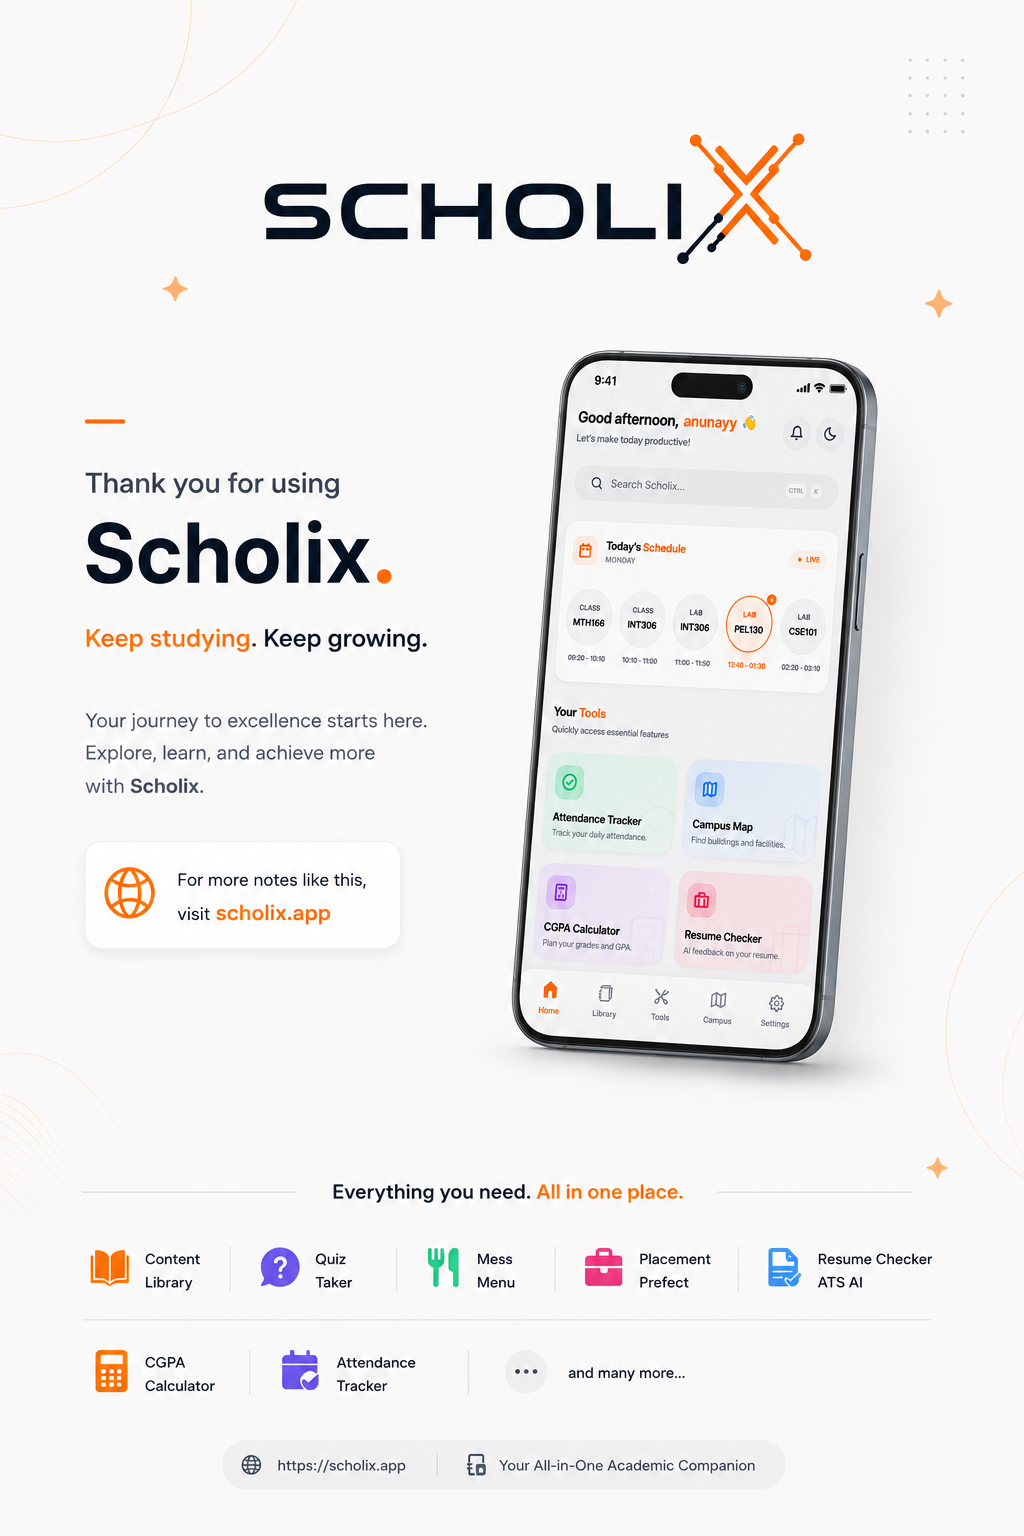
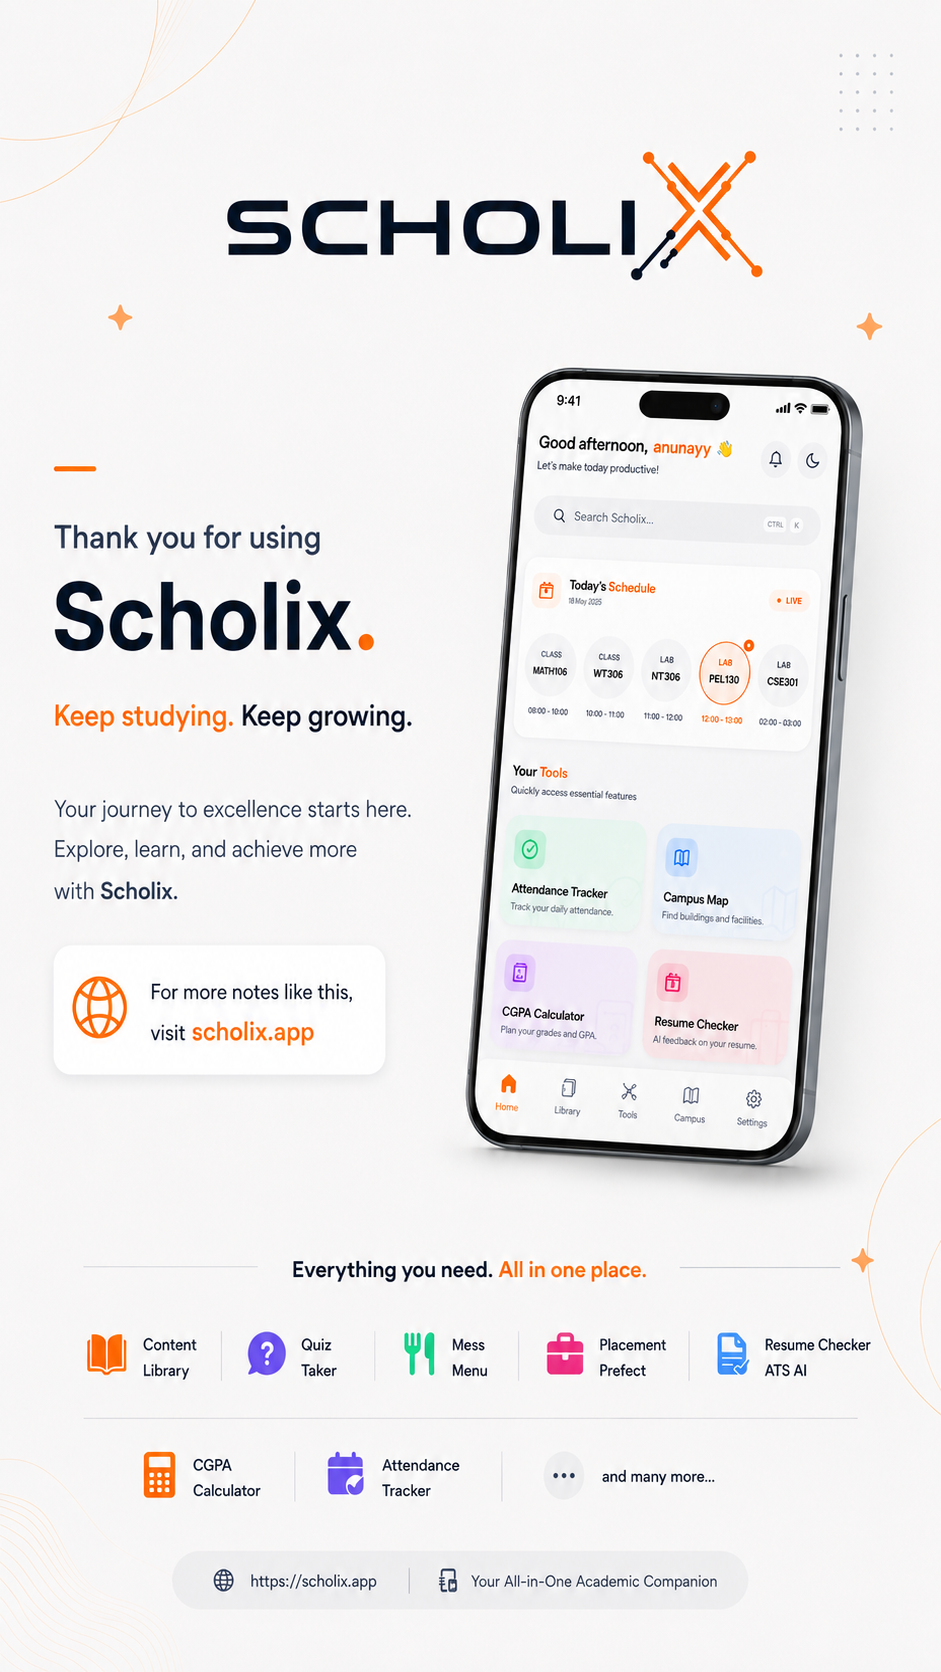
feat: implement PDFViewer component with canvas-based rendering, text layer support, and search functionality

diff --git a/components/PDFViewer.tsx b/components/PDFViewer.tsx
@@ -265,6 +265,7 @@ const PDFViewer: React.FC<PDFViewerProps> = ({ url, onClose, fileName, userProfi
     const [pdfDoc, setPdfDoc] = useState<any>(null);
     const [pdfjsLibState, setPdfjsLibState] = useState<any>(null);
     const [isPrintBlocked, setIsPrintBlocked] = useState(false);
+    const [isDownloading, setIsDownloading] = useState(false);
 
     const [isFullscreen, setIsFullscreen] = useState(false);
     const [renderScale, setRenderScale] = useState(scale);
@@ -851,7 +852,8 @@ const PDFViewer: React.FC<PDFViewerProps> = ({ url, onClose, fileName, userProfi
 
     // 💾 Authenticated Download with Cover Page
     const handleDownload = async () => {
-        if (!isAdmin || !url) return;
+        if (!isAdmin || !url || isDownloading) return;
+        setIsDownloading(true);
         try {
             showToast('Preparing Secure Download...', 'info');
             
@@ -911,9 +913,11 @@ const PDFViewer: React.FC<PDFViewerProps> = ({ url, onClose, fileName, userProfi
             
             setTimeout(() => URL.revokeObjectURL(blobUrl), 100);
             showToast('Download Verified & Complete.', 'success');
-        } catch (err) {
+        } catch (err: any) {
             console.error("Download failure:", err);
-            showToast('Download Blocked: Protocol Fault.', 'error');
+            showToast(err?.message || 'Download Blocked: Protocol Fault.', 'error');
+        } finally {
+            setIsDownloading(false);
         }
     };
 
@@ -1054,10 +1058,15 @@ const PDFViewer: React.FC<PDFViewerProps> = ({ url, onClose, fileName, userProfi
                     {isAdmin && (
                         <button
                             onClick={handleDownload}
-                            className="w-10 h-10 rounded-xl flex items-center justify-center bg-orange-600 text-white border-none hover:scale-110 active:scale-95 transition-all shadow-lg shadow-orange-600/20"
-                            title="Download PDF"
+                            disabled={isDownloading}
+                            className={`w-10 h-10 rounded-xl flex items-center justify-center border-none transition-all shadow-lg shadow-orange-600/20 ${isDownloading ? 'bg-orange-600/60 cursor-wait' : 'bg-orange-600 text-white hover:scale-110 active:scale-95'}`}
+                            title={isDownloading ? 'Preparing download...' : 'Download PDF'}
                         >
-                            <svg viewBox="0 0 24 24" fill="none" stroke="currentColor" strokeWidth="3" className="w-5 h-5"><path d="M21 15v4a2 2 0 0 1-2 2H5a2 2 0 0 1-2-2v-4" /><polyline points="7 10 12 15 17 10" /><line x1="12" y1="15" x2="12" y2="3" /></svg>
+                            {isDownloading ? (
+                                <svg className="w-5 h-5 animate-spin text-white" viewBox="0 0 24 24" fill="none"><circle cx="12" cy="12" r="10" stroke="currentColor" strokeWidth="3" strokeDasharray="31.4 31.4" strokeLinecap="round" /></svg>
+                            ) : (
+                                <svg viewBox="0 0 24 24" fill="none" stroke="currentColor" strokeWidth="3" className="w-5 h-5 text-white"><path d="M21 15v4a2 2 0 0 1-2 2H5a2 2 0 0 1-2-2v-4" /><polyline points="7 10 12 15 17 10" /><line x1="12" y1="15" x2="12" y2="3" /></svg>
+                            )}
                         </button>
                     )}
                 </div>